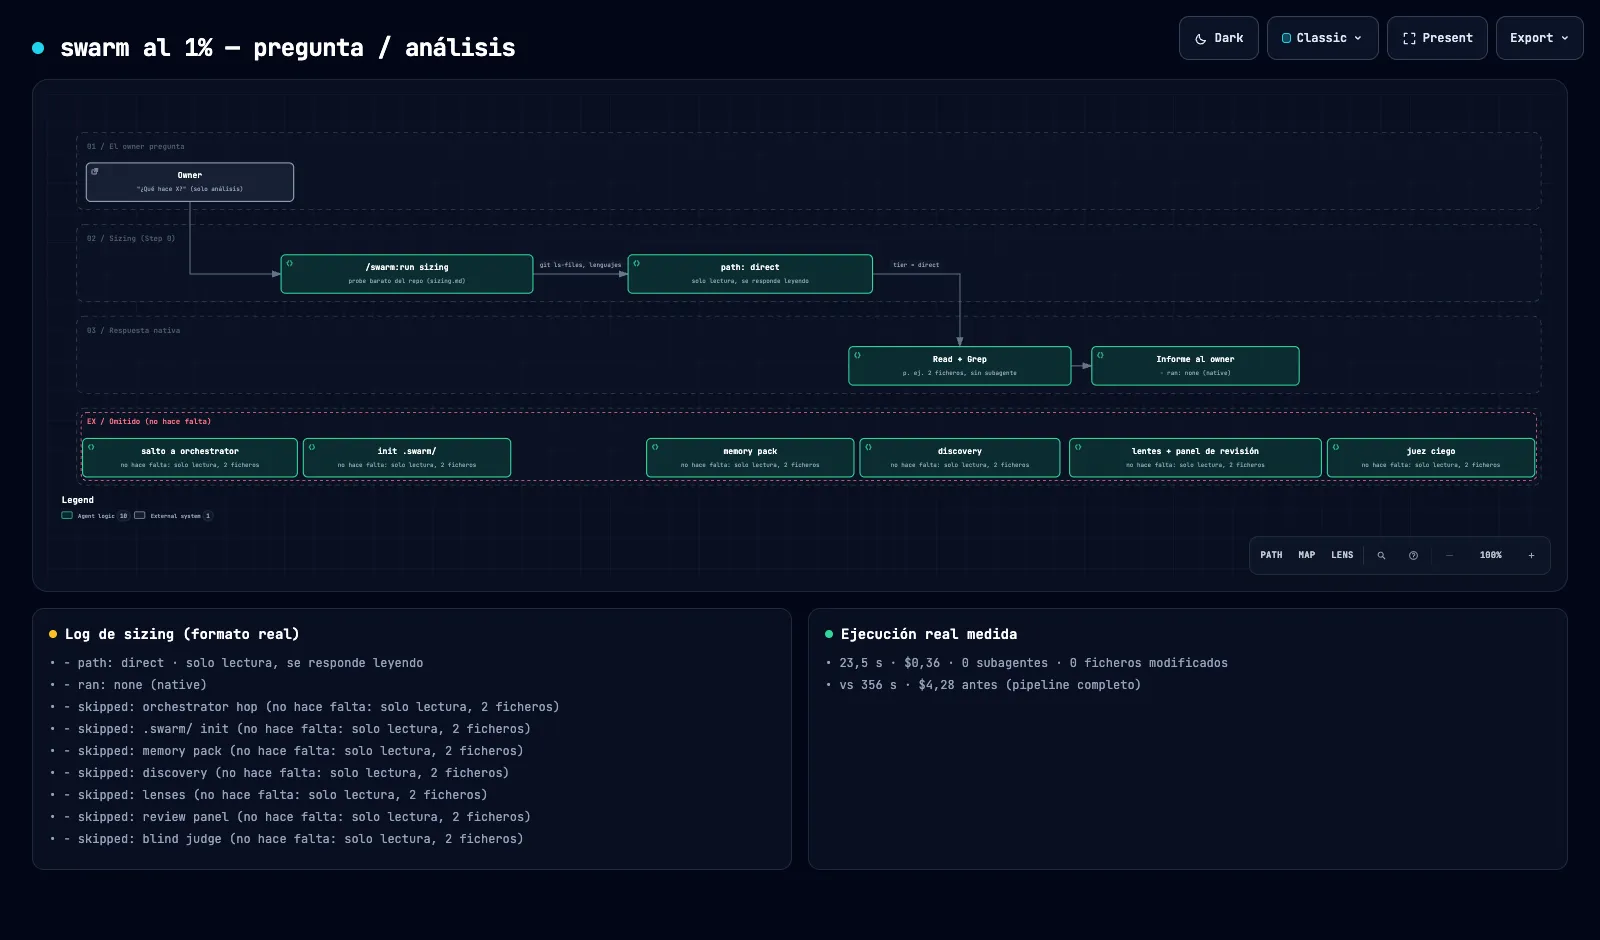
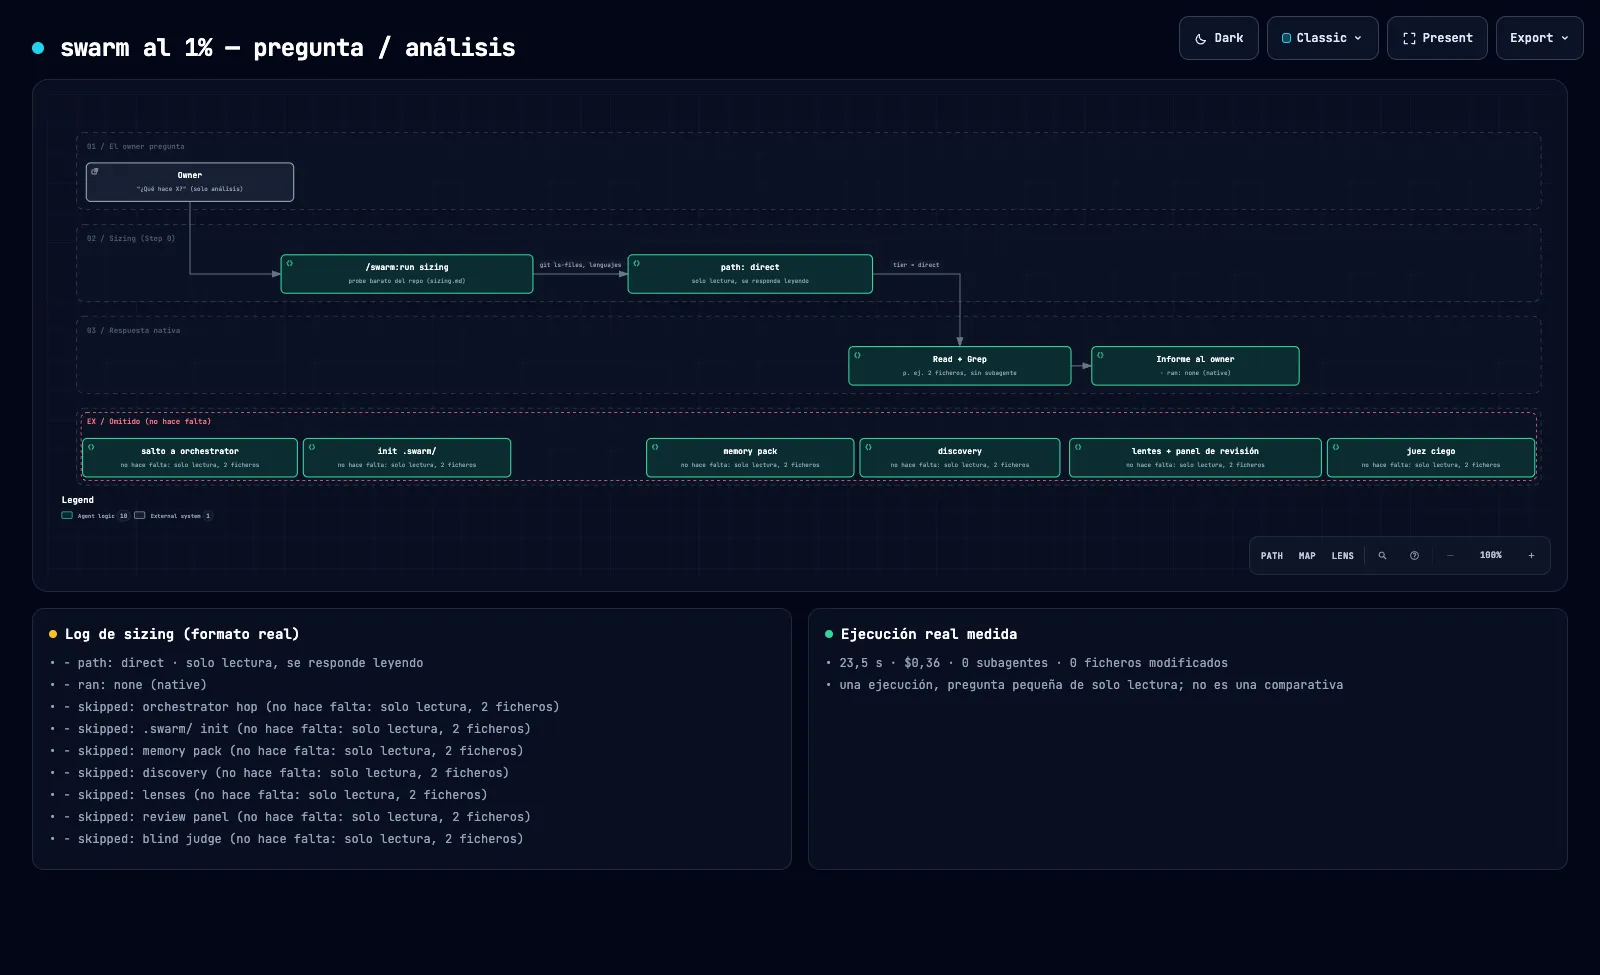
fix(swarm): remove misleading cost table (runs used different questions)

diff --git a/swarm/index.html b/swarm/index.html
@@ -914,17 +914,7 @@
       <figcaption><span><span class="dgm-idx">fig. 7</span><b><span lang="es">swarm al ~20% — añadir login</span><span lang="en">~20% swarm — add login</span></b></span><a class="dgm-open" lang="es" href="diagrams/routing-20pct.es.html" target="_blank" rel="noopener">Abrir interactivo ↗<span class="sr-only"> (pestaña nueva)</span></a><a class="dgm-open" lang="en" href="diagrams/routing-20pct.html" target="_blank" rel="noopener">Open interactive ↗<span class="sr-only"> (new tab)</span></a></figcaption>
     </figure>
     </div>
-    <div class="cost-wrap">
-      <table class="cost-table">
-        <caption class="sr-only"><span lang="es">Tiempo y coste de la misma pregunta de solo lectura: pipeline completo, sizing nativo, y sin swarm</span><span lang="en">Time and cost of the same read-only question: full pipeline, native sizing, and without swarm</span></caption>
-        <thead><tr><th scope="col"><span class="sr-only"><span lang="es">Métrica</span><span lang="en">Metric</span></span></th><th scope="col"><span lang="es">antes (pipeline completo)</span><span lang="en">before (full pipeline)</span></th><th scope="col"><span lang="es">ahora (swarm 0.2.2)</span><span lang="en">now (swarm 0.2.2)</span></th><th scope="col"><span lang="es">plano (sin swarm)</span><span lang="en">plain (no swarm)</span></th></tr></thead>
-        <tbody>
-          <tr><th scope="row"><span lang="es">Tiempo</span><span lang="en">Time</span></th><td>356 s</td><td>23.5 s <b>−93%</b></td><td>144 s</td></tr>
-          <tr class="total"><th scope="row"><span lang="es">Coste</span><span lang="en">Cost</span></th><td>$4.28</td><td>$0.36 <b>−92%</b></td><td>$0.87</td></tr>
-        </tbody>
-      </table>
-    </div>
-    <p class="sec-foot"><span lang="es">Una ejecución real, no un benchmark: el mismo objetivo de solo lectura, medido tres veces (pipeline completo de 0.2.1, sizing nativo de 0.2.2, y Claude Code plano sin el plugin).</span><span lang="en">One real run, not a benchmark: the same read-only goal, measured three times (0.2.1's full pipeline, 0.2.2's native sizing, and plain Claude Code without the plugin).</span></p>
+    <p class="sec-foot"><span lang="es">Medido una vez, sin valor de benchmark: una pregunta pequeña de solo lectura se resolvió en nativo en 23,5 s y 0,36 $, sin subagentes y sin tocar ficheros. Antes, una pregunta de análisis mayor lanzaba el pipeline completo (356 s, 4,28 $). Son preguntas distintas, así que no es una comparativa. Falta medir swarm frente a Claude nativo en una tarea grande, que es para lo que está pensado.</span><span lang="en">Measured once, not a benchmark: a small read-only question was answered natively in 23.5 s and $0.36, with no subagents and no files touched. Before, a larger analysis question launched the full pipeline (356 s, $4.28). The questions differ, so this is not a comparison. Swarm versus native Claude on a large task, which is what it is built for, has not been measured yet.</span></p>
   </section>
 
   <section class="sec wrap" id="tiers" aria-labelledby="tiers-h">

diff --git a/swarm/diagrams/routing-1pct.es.html b/swarm/diagrams/routing-1pct.es.html
@@ -5539,7 +5539,7 @@ OTHER DEALINGS IN THE FONT SOFTWARE.
         </div>
         <ul>
           <li>&bull; 23,5 s · $0,36 · 0 subagentes · 0 ficheros modificados</li>
-          <li>&bull; vs 356 s · $4,28 antes (pipeline completo)</li>
+          <li>&bull; una ejecución, pregunta pequeña de solo lectura; no es una comparativa</li>
         </ul>
       </div>
     </div>

diff --git a/swarm/diagrams/routing-1pct.html b/swarm/diagrams/routing-1pct.html
@@ -5539,7 +5539,7 @@ OTHER DEALINGS IN THE FONT SOFTWARE.
         </div>
         <ul>
           <li>&bull; 23.5 s · $0.36 · 0 subagents · 0 files changed</li>
-          <li>&bull; vs 356 s · $4.28 before (full pipeline)</li>
+          <li>&bull; one run on a small read-only question; not a comparison</li>
         </ul>
       </div>
     </div>
